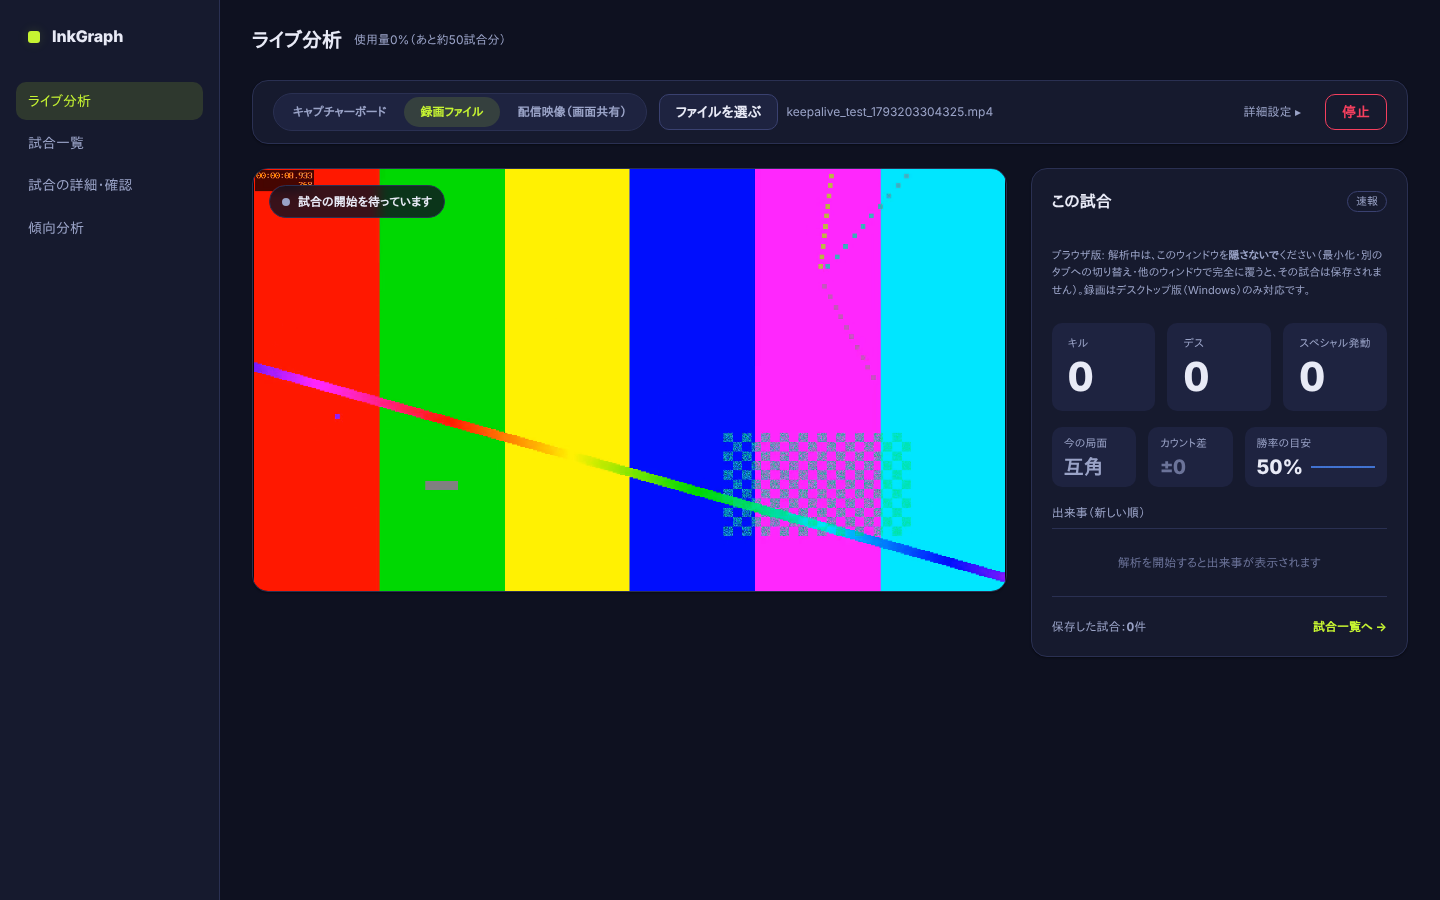
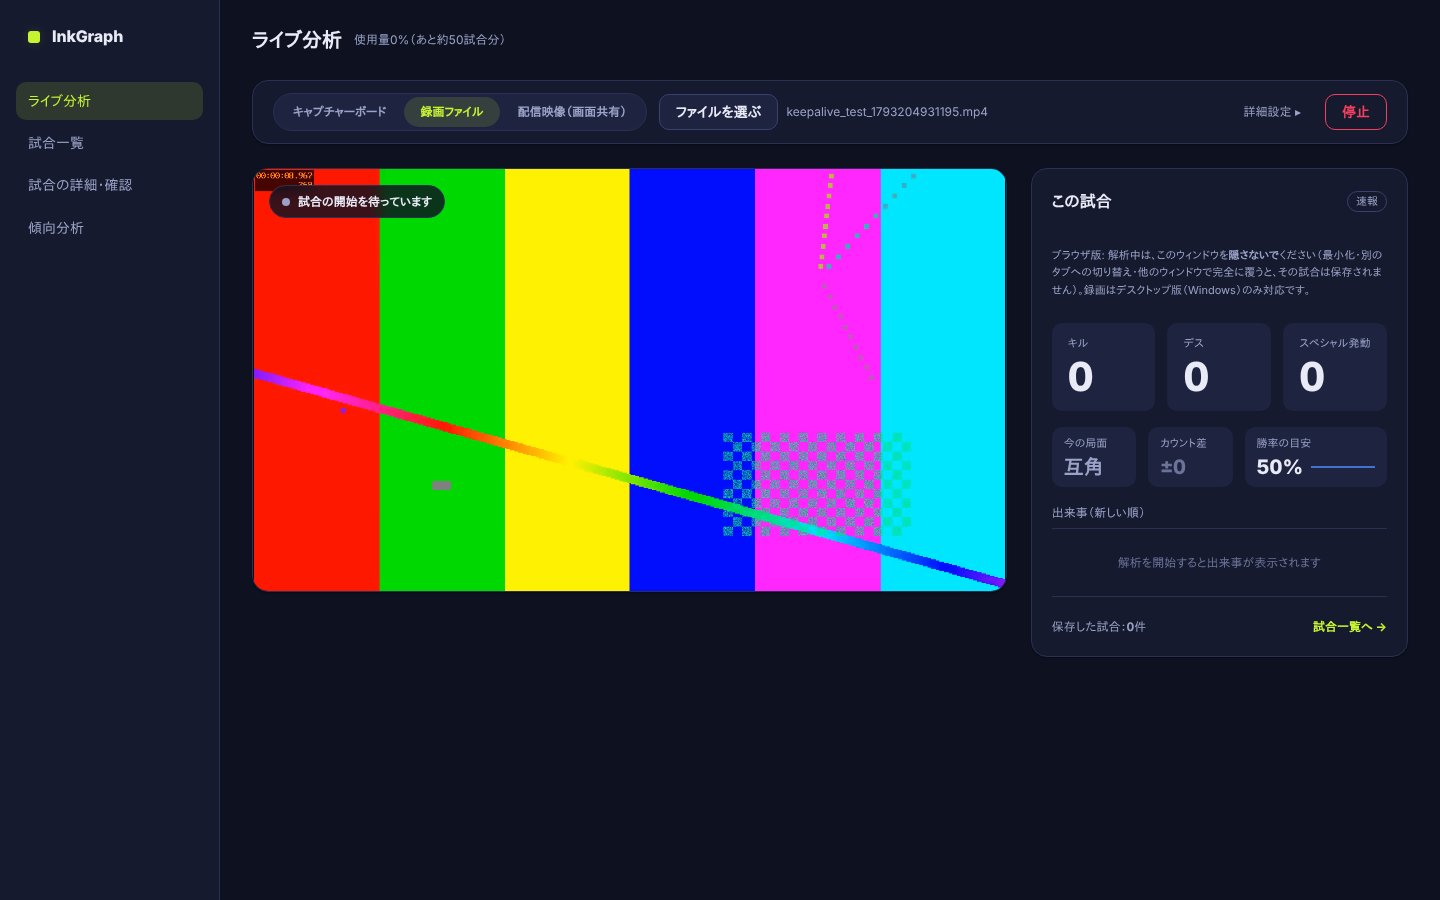
録画をMP4・60fps・音声192kbpsにする (D72) (#169)
* 検証録画: 直近1試合の全コマ＋分析結果のzip書き出し (D67)

Claude-Session: https://claude.ai/code/session_018zsqgbHNLDpb8cVTBpk5SR

* 試合ごとの録画ファイル: ルール・ステージ入りの名前で1試合1ファイル (D68)

Claude-Session: https://claude.ai/code/session_018zsqgbHNLDpb8cVTBpk5SR

* 試合録画にゲーム音を追加 (D68追記)

Claude-Session: https://claude.ai/code/session_018zsqgbHNLDpb8cVTBpk5SR

* ブキアイコンの読み違い対策（ボードの数が読めない枠を捨てる・絵の無いアイコンを出さない）と記録の全消去ボタン (D69)

Claude-Session: https://claude.ai/code/session_018zsqgbHNLDpb8cVTBpk5SR

* 試合録画: 状況表示と保存先の書き込み許可の聞き直し (D70)

Claude-Session: https://claude.ai/code/session_018zsqgbHNLDpb8cVTBpk5SR

* 試合録画: 2試合連続で別ファイルになることのテストを追加

Claude-Session: https://claude.ai/code/session_018zsqgbHNLDpb8cVTBpk5SR

* Windows デスクトップ版（Electron）の追加。ブラウザ版は録画なし・隠さない注意つきで残す (D71)

Claude-Session: https://claude.ai/code/session_018zsqgbHNLDpb8cVTBpk5SR

* 録画の診断通知を各段階に追加 (D71追記)

Claude-Session: https://claude.ai/code/session_018zsqgbHNLDpb8cVTBpk5SR

* Windows版ビルドをmainの変更で自動実行し、固定リリース desktop-latest に出す

Claude-Session: https://claude.ai/code/session_018zsqgbHNLDpb8cVTBpk5SR

* ライブ映像で「早送り」が渡って録画・中断検出が切れていた不具合を修正 (D71追記)

Claude-Session: https://claude.ai/code/session_018zsqgbHNLDpb8cVTBpk5SR

* 録画形式をMP4(H.264)にする。WebMも選べる (D72)

Claude-Session: https://claude.ai/code/session_018zsqgbHNLDpb8cVTBpk5SR

* video_rec_check: 既定のMP4に合わせてテストを更新

Claude-Session: https://claude.ai/code/session_018zsqgbHNLDpb8cVTBpk5SR

* 録画を60fps・音声192kbpsに。画質(5/8/12Mbps)を選べる (D72追記)
[…]

Changed region(s): [[0.4375, 0.4667, 0.7188, 0.6533], [0.1562, 0.4044, 0.4375, 0.5289], [0.6562, 0.0933, 0.6875, 0.1556]]

diff --git a/web/src/main.js b/web/src/main.js
@@ -1776,14 +1776,18 @@ PAGES.list = async () => {
     const dirInfo = D ? await D.getVideoDir().catch(() => null) : null, dir = D ? null : await db.getVideoDir().catch(() => null), canPick = D || typeof window.showDirectoryPicker === 'function';
     const perm = dir ? await dir.queryPermission?.({ mode: 'readwrite' }).catch(() => 'prompt') : null;
     el.innerHTML = `<h3>試合ごとの録画ファイル</h3>
-      <p class="muted">オンにすると、配信映像／キャプチャー映像の解析中、バトル開始から結果画面までを<strong>1 試合 = 1 ファイル</strong>（WebM）で保存します。ファイル名は <code>日時_ルール_ステージ_勝敗.webm</code> で、結果画面を読めたあとに自動で付きます（例: 20261027_2105_ガチエリア_ヒラメが丘団地_勝ち.webm）。1 試合 約 100MB。録画ファイルを読み込んでの解析（ファイル再生）では録画されません。</p>
+      <p class="muted">オンにすると、配信映像／キャプチャー映像の解析中、バトル開始から結果画面までを<strong>1 試合 = 1 ファイル</strong>で保存します。ファイル名は <code>日時_ルール_ステージ_勝敗.mp4</code> で、結果画面を読めたあとに自動で付きます（例: 20261027_2105_ガチエリア_ヒラメが丘団地_勝ち.mp4）。60fps・音声 192kbps。録画ファイルを読み込んでの解析（ファイル再生）では録画されません。</p>
       <label class="row"><input type="checkbox" id="video-on" ${on ? 'checked' : ''}> 試合ごとに録画する</label>
       <label class="row"><input type="checkbox" id="video-audio" ${VR.getAudioOn() ? 'checked' : ''}> ゲーム音も録音する（次に解析を始めるときから）</label>
+      <label class="row">画質（60fps） <select id="video-bitrate" class="input-sm">${VR.BITRATE_CHOICES.map(m => `<option value="${m}" ${VR.getBitrateMbps() === m ? 'selected' : ''}>${m} Mbps（1 試合 約 ${Math.round(m * 6 * 60 / 8 + 6 * 60 * 192 / 8000)}MB${m === 8 ? '・おすすめ' : ''}）</option>`).join('')}</select></label>
+      <label class="row">録画形式 <select id="video-format" class="input-sm"><option value="mp4" ${VR.getFormat() === 'mp4' ? 'selected' : ''}>MP4（H.264・おすすめ。ほとんどのプレーヤーで再生できます）</option><option value="webm" ${VR.getFormat() === 'webm' ? 'selected' : ''}>WebM（MP4 で録画できないときに）</option></select></label>
       <p class="muted">${D ? '画面共有: ウィンドウ／画面を選ぶと、Windows ではシステム音も録れます。キャプチャー映像: ボードの音声入力（映像と同じ機器の音声）を自動で探して足します。' : '配信映像（画面共有）: 共有ダイアログの「タブの音声／システムの音声も共有」にチェックを入れてください。キャプチャー映像: ボードの音声入力を自動で探して足します。'} 見つからないときは音声なしで録画します。録画中、画面からの再生音は出しません（二重に聞こえるのを防ぐため）。</p>
       <p class="muted" id="video-dir">保存先: ${D ? esc(dirInfo?.dir || '') + (dirInfo?.custom ? '' : '（既定）') : (dir ? esc(dir.name) + (perm === 'granted' ? '（書き込み許可済み）' : '（許可が切れています。「保存先を選ぶ」で選び直してください）') : '未設定（ダウンロードフォルダに自動ダウンロード）')}</p>
       <button class="btn" id="video-pick" type="button" ${canPick ? '' : 'disabled'}>${D || dir ? '保存先を選び直す' : '保存先フォルダを選ぶ'}</button>${D ? ' <button class="btn" id="video-open" type="button">保存先を開く</button>' : ''}${!D && dir && perm !== 'granted' ? ' <button class="btn" id="video-regrant" type="button">書き込みを許可する</button>' : ''}`;
     $('#video-on', el).onchange = e => VR.setVideoOn(e.target.checked);
     $('#video-audio', el).onchange = e => VR.setAudioOn(e.target.checked);
+    $('#video-bitrate', el).onchange = e => VR.setBitrateMbps(+e.target.value);
+    $('#video-format', el).onchange = e => VR.setFormat(e.target.value);
     const rg = $('#video-regrant', el); if (rg) rg.onclick = async () => { await VR.ensureDirPermission(dir); await updateVideoPanel(); };
     const op = $('#video-open', el); if (op) op.onclick = () => D.openVideoDir();
     $('#video-pick', el).onclick = async () => { try { if (D) { await D.pickVideoDir(); } else { const h = await window.showDirectoryPicker({ mode: 'readwrite' }); await db.setVideoDir(h); } await updateVideoPanel(); } catch { /* cancelled */ } };

diff --git a/web/src/video_rec.js b/web/src/video_rec.js
@@ -16,17 +16,32 @@ export function videoFilename(rec, ext = 'webm') {
   return parts.filter(Boolean).join('_') + '.' + ext;
 }
 
-const MIMES = ['video/webm;codecs=vp9,opus', 'video/webm;codecs=vp8,opus', 'video/webm;codecs=vp9', 'video/webm;codecs=vp8', 'video/webm'];
+// 録画形式。MP4（H.264 ＋ AAC。AAC が使えない環境は Opus）が既定。使えなければ WebM。
+const MIMES = {
+  mp4: ['video/mp4;codecs=avc1.640028,mp4a.40.2', 'video/mp4;codecs=avc1.42E01E,mp4a.40.2', 'video/mp4;codecs=avc1,mp4a.40.2', 'video/mp4;codecs=avc1.42E01E,opus', 'video/mp4;codecs=avc1,opus', 'video/mp4;codecs=avc1'],
+  webm: ['video/webm;codecs=vp9,opus', 'video/webm;codecs=vp8,opus', 'video/webm;codecs=vp9', 'video/webm;codecs=vp8', 'video/webm']
+};
+const FORMAT_KEY = 'inkgraph.videoFormat';
+export const getFormat = () => { try { return localStorage.getItem(FORMAT_KEY) === 'webm' ? 'webm' : 'mp4'; } catch { return 'mp4'; } };
+export const setFormat = f => { try { localStorage.setItem(FORMAT_KEY, f === 'webm' ? 'webm' : 'mp4'); } catch { /* ignore */ } };
 export const videoSupported = () => typeof MediaRecorder !== 'undefined' && recordingAvailable();
-export function pickMime() { if (!videoSupported()) return null; return MIMES.find(m => MediaRecorder.isTypeSupported?.(m)) || ''; }
-export const VIDEO_BPS = 3_000_000; // 3Mbps ≒ 5 分で約 110MB
+export function pickMime(format = getFormat()) {
+  if (typeof MediaRecorder === 'undefined') return null;
+  const ok = m => MediaRecorder.isTypeSupported?.(m);
+  return MIMES[format].find(ok) || (format === 'mp4' ? MIMES.webm.find(ok) : null) || '';
+}
+export const extOfMime = m => (/mp4/.test(m || '') ? 'mp4' : 'webm');
+// 映像のビットレート（Mbps）。60fps なので既定は 8（1 試合 約 300MB）。音声は 192kbps
+export const BITRATE_CHOICES = [5, 8, 12], AUDIO_BPS = 192_000;
+export const getBitrateMbps = () => { try { const v = parseInt(localStorage.getItem('inkgraph.videoBitrate') || '', 10); return BITRATE_CHOICES.includes(v) ? v : 8; } catch { return 8; } };
+export const setBitrateMbps = v => { try { localStorage.setItem('inkgraph.videoBitrate', String(v)); } catch { /* ignore */ } };
 
 /** 1 試合ぶんの録画。start() → stop() で Blob（ブラウザ）／ディスク上のファイルの控え（デスクトップ版: 2 秒ごとに保存先へ直接書く） */
 export class MatchRecorder {
-  constructor(stream, { bps = VIDEO_BPS } = {}) {
+  constructor(stream, { bps = getBitrateMbps() * 1_000_000 } = {}) {
     const mimeType = pickMime(), D = desktop();
-    this.rec = new MediaRecorder(stream, { ...(mimeType ? { mimeType } : {}), videoBitsPerSecond: bps, ...(stream.getAudioTracks?.().length ? { audioBitsPerSecond: 128_000 } : {}) });
-    this.mime = this.rec.mimeType || mimeType || 'video/webm'; this.chunks = []; this.state = 'idle'; this.D = D;
+    this.rec = new MediaRecorder(stream, { ...(mimeType ? { mimeType } : {}), videoBitsPerSecond: bps, ...(stream.getAudioTracks?.().length ? { audioBitsPerSecond: AUDIO_BPS } : {}) });
+    this.mime = this.rec.mimeType || mimeType || 'video/webm'; this.ext = extOfMime(this.mime); this.chunks = []; this.state = 'idle'; this.D = D;
     if (D) { this.idP = D.recOpen(); this.chain = this.idP.then(() => 0); this.bytes = 0; }
     this.rec.ondataavailable = e => {
       if (!e.data || !e.data.size) return;

diff --git a/desktop/tools/desktop_check.js b/desktop/tools/desktop_check.js
@@ -48,9 +48,17 @@ app.whenReady().then(async () => {
     w.show();
     const dir = process.env.INKGRAPH_VIDEO_DIR, files = fs.existsSync(dir) ? fs.readdirSync(dir).sort() : [];
     check(two.saved.length === 2 && two.saved.every(x => x.includes('|folder|')), '(5) 2 試合ぶんが保存先フォルダに保存された（ウィンドウは隠したまま）', two.saved.join(' ; '));
-    check(files.length === 2 && files[0].endsWith('ヒラメが丘団地_勝ち.webm') && files[1].endsWith('マテガイ放水路_負け.webm') && !files.some(f => f.endsWith('.part')), '(6) 試合ごとの名前の 2 ファイルができ、一時ファイル（.part）は残らない', files.join(' | '));
+    check(files.length === 2 && files[0].endsWith('ヒラメが丘団地_勝ち.mp4') && files[1].endsWith('マテガイ放水路_負け.mp4') && !files.some(f => f.endsWith('.part')), '(6) 試合ごとの名前の 2 ファイル（既定は MP4）ができ、一時ファイル（.part）は残らない', files.join(' | '));
     check(files.every(f => fs.statSync(path.join(dir, f)).size > 1000), '(7) ファイルの中身がある（映像が書かれている）', files.map(f => fs.statSync(path.join(dir, f)).size).join(','));
-    const head = fs.readFileSync(path.join(dir, files[0])).subarray(0, 4); check(head[0] === 0x1a && head[1] === 0x45 && head[2] === 0xdf && head[3] === 0xa3, '(8) WebM（EBML ヘッダー）として書かれている');
+    const head = fs.readFileSync(path.join(dir, files[0])).subarray(4, 8).toString(); check(head === 'ftyp', '(8) MP4（ftyp ヘッダー）として書かれている', head);
+    // 録画形式を WebM にすると、WebM（EBML ヘッダー）になる
+    await js(`localStorage.setItem('inkgraph.videoFormat', 'webm')`);
+    const web = await js(`(async () => { const { Session } = window.inkgraph, saved = []; const s = new Session(document.createElement('video'), { videoSaved: r => saved.push(r.filename) });
+      const c = document.createElement('canvas'); c.width = 160; c.height = 90; const g = c.getContext('2d'); let n = 0; setInterval(() => { g.fillStyle = 'hsl(' + (n++ * 20) + ',80%,50%)'; g.fillRect(0, 0, 160, 90); }, 40);
+      s.mode = 'stream'; s.stream = c.captureStream(25); s.sessionId = new Date(2026, 9, 27, 22, 0).toISOString(); s.fast = false; s.running = true;
+      s.onMsg({ type: 'event', e: { type: 'battle_start', t: 0 } }); await new Promise(r => setTimeout(r, 1500)); s.onMsg({ type: 'event', e: { type: 'battle_end', t: 1.5 } }); clearTimeout(s.vcur.timer); await new Promise(r => setTimeout(r, 4200));
+      await s.saveMatch({ match: 3, battle: [0, 5], squid_down: {}, own_deaths: [], own_kills: [], special: [], result_screen: { result: 'WIN', mode: 'ガチヤグラ', stage: 'ザトウマーケット', own: { ka: 1, deaths: 1, specials: 0 } }, review: { marks: {}, added: [], fix: {} } }); return saved; })()`);
+    const wf = web[0] && path.join(dir, web[0]); check(web.length === 1 && web[0].endsWith('.webm') && fs.existsSync(wf) && fs.readFileSync(wf).subarray(0, 4).equals(Buffer.from([0x1a, 0x45, 0xdf, 0xa3])), '(9) 録画形式を WebM にすると WebM で保存される', web.join(','));
   } catch (e) { console.log('FAIL exception', e); fails++; }
   fs.rmSync(tmp, { recursive: true, force: true }); app.exit(fails ? 1 : 0);
 });

diff --git a/web/src/session.js b/web/src/session.js
@@ -32,11 +32,11 @@ export class Session {
     this.mode = mode; this.owner = owner || 'self'; this.fast = !!fast && mode === 'file'; this.sessionId = new Date().toISOString();
     if (mode === 'stream') {
       this.sourceName = '配信映像（画面共有）';
-      this.stream = await navigator.mediaDevices.getDisplayMedia({ video: { width: { ideal: 1920 }, height: { ideal: 1080 }, frameRate: { ideal: 30 } }, audio: wantAudio });
+      this.stream = await navigator.mediaDevices.getDisplayMedia({ video: { width: { ideal: 1920 }, height: { ideal: 1080 }, frameRate: { ideal: 60 } }, audio: wantAudio });
       this.video.srcObject = this.stream; this.video.muted = true; await this.video.play(); this.srcH = this.stream.getVideoTracks()[0]?.getSettings?.()?.height || 1080; this.t0 = performance.now();
     } else if (mode === 'device') {
       this.sourceName = 'キャプチャー映像';
-      this.stream = await navigator.mediaDevices.getUserMedia({ video: { deviceId: deviceId ? { exact: deviceId } : undefined, width: { ideal: 1920 }, height: { ideal: 1080 }, frameRate: { ideal: 30 } }, audio: false });
+      this.stream = await navigator.mediaDevices.getUserMedia({ video: { deviceId: deviceId ? { exact: deviceId } : undefined, width: { ideal: 1920 }, height: { ideal: 1080 }, frameRate: { ideal: 60 } }, audio: false });
       // D68: ゲーム音。キャプチャーボードの音声入力（映像と同じ groupId）を足す。見つからなければ音声なしで続ける
       if (wantAudio) {
         try {
@@ -187,7 +187,7 @@ export class Session {
     if (!keep) this.videoNote('録画: 試合を保存しなかったので、録画も捨てました');
     clearTimeout(c.timer); if (this.vcur === c) this.vcur = null;
     const blob = await c.r.stop(); if (!keep) { await blob?.discard?.(); return; } if (!blob || !blob.size) { this.videoNote('録画: 映像が空だったので保存しませんでした', 'error'); return; }
-    try { const name = videoFilename({ ...rec, created: new Date(Date.parse(this.sessionId) + (rec.battle?.[0] ?? 0) * 1000).toISOString() }), res = await saveVideo(blob, name, { getDir: db.getVideoDir }); rec.videoFile = name; this.cb.videoSaved?.({ ...res, bytes: blob.size }); }
+    try { const name = videoFilename({ ...rec, created: new Date(Date.parse(this.sessionId) + (rec.battle?.[0] ?? 0) * 1000).toISOString() }, c.r.ext || 'webm'), res = await saveVideo(blob, name, { getDir: db.getVideoDir }); rec.videoFile = name; this.cb.videoSaved?.({ ...res, bytes: blob.size }); }
     catch (e) { console.warn('video save failed', e); this.videoNote('録画: 保存に失敗しました（' + (e?.message || e) + '）', 'error'); }
   }
   async saveMatch(rec) {

diff --git a/docs/DECISIONS.md b/docs/DECISIONS.md
@@ -788,7 +788,7 @@
 
 ## D68 (2026-10-27) 試合ごとの録画ファイル（ルール・ステージ入りの名前で 1 試合 1 ファイル）
 - 機能：リスト画面の「試合ごとの録画ファイル」パネルでオンにすると、**配信映像／キャプチャー映像**の解析中、バトル開始（`battle_start`）から結果画面（`battle_end` の 25 秒後）までを `MediaRecorder` で録り、1 試合 = 1 ファイル（WebM・3Mbps ≒ 5 分で約 110MB）で保存する。録画ファイルを読み込んでの解析（file モード）では録画しない。
-- ファイル名：`日時_ルール_ステージ_勝敗.webm`（例 `20261027_2105_ガチエリア_ヒラメが丘団地_勝ち.webm`。regular 以外のマッチ種別は勝敗の前に入る）。名前は**試合が終わって結果画面を読めたあと**に決まる（録画自体は結果画面が出る前から始まっているため）。読めなかった項目は「ルール不明／ステージ不明／勝敗不明」。使えない文字は除く。日時は解析開始の時刻＋バトル開始の秒数（試合の始まった時刻）。`rec.videoFile` に名前を持つ（クラウド同期の対象外）。
+- ファイル名：`日時_ルール_ステージ_勝敗.webm`（例 `20261027_2105_ガチエリア_ヒラメが丘団地_勝ち.mp4`。regular 以外のマッチ種別は勝敗の前に入る）。名前は**試合が終わって結果画面を読めたあと**に決まる（録画自体は結果画面が出る前から始まっているため）。読めなかった項目は「ルール不明／ステージ不明／勝敗不明」。使えない文字は除く。日時は解析開始の時刻＋バトル開始の秒数（試合の始まった時刻）。`rec.videoFile` に名前を持つ（クラウド同期の対象外）。
 - 保存先：Chrome／Edge の File System Access API で**保存先フォルダ**を選ぶ（ハンドルは IndexedDB の `learn` ストアの `videoDir`）。再読み込み後は書き込み許可が切れるので、パネルの「保存先を選び直す」で再許可する（許可が無い間・非対応ブラウザは、ダウンロードで保存）。メモリには 1 試合ぶん（約 100MB）を持つ。ライブ画面のイベント一覧に「録画を保存: …」と出る。
 - 動作：バトル開始で録画開始 → 試合が捨てられた（`battle_discard`／ガードで保存しない判定）ら録画も捨てる → 試合が保存されるときに先頭の録画と対にして保存（先入れ先出し）。
 - 検証：`web/tools/video_rec_check.mjs`（名前付け 4 件・パネル 2 件・実ブラウザで canvas を MediaRecorder で WebM にする・ダウンロード保存・ページエラー無し、計 9 件 PASS）。`session_keepalive_check`・`stream_capture_check`・`clip_ui_check`・`cloud_ui_check` も PASS。**実際のキャプチャー映像での通し（バトルをまたいだ録画・フォルダ保存）は未確認。**
@@ -819,3 +819,10 @@
 - 追記（D71）録画の診断：ブラウザ版で「録画: オン」のあと、試合が終わっても何も出ない、という報告があった（原因は特定できず）。録画の各段階で、理由つきの通知を出すようにした：開始できない理由（ストリーム無し・環境が非対応）、バトル終了時に録画が始まっていなかった、試合として確定せず捨てた、試合を保存しなかったので録画も捨てた、保存時に対応する録画が無かった。デスクトップ版でも同じ通知が出る。
 - 追記（D71）配布の自動化：Windows 版のビルドは、main に `desktop/**`・`web/**`・ワークフロー自身の変更が入ると自動で動く（連続して入ったら古いほうは中止）。成果物は Artifacts と、固定のリリース `desktop-latest`（毎回作り直す pre-release）。手動実行・`desktop-v*` タグも残す。Windows のビルドは数分かかるので、Actions の無料枠（private リポジトリは Windows が 2 倍換算）に注意。アプリ内の自動更新（electron-updater）は未対応で、今は新しい exe を取り直す。
 - 追記（D71）不具合：ライブ映像（配信／キャプチャー）の解析で、「ファイルは早送りで解析」のチェック（既定でオン）が `fast` として渡され、`Session.fast` が真になっていた。`!this.fast` の中にある処理（中断の検出（CaptureGuard）・見張りタイマー・録画の開始／保存・hidden の扱い）が**ライブ映像ですべて切れていた**。録画が始まらなかった（「この試合に対応する録画がありません」）原因はこれ。`fast` はファイルの解析だけで有効にする（`this.fast = fast && mode === 'file'`）。ライブ映像では、中断の検出が有効になる（映像の取り込みが 3 秒以上止まった試合は保存しない、という本来の動き）。`video_rec_check` に、`fast: true` でライブ映像を始めても `fast` が無視され、見張り・録画・中断の検出が動くことの確認を追加（20 件 PASS）。
+
+## D72 (2026-10-28) 録画形式を MP4（H.264）にする（WebM は選べる）
+- 要望：録画ファイルが WebM で扱いにくい。MP4 にしたい。
+- 対応：`MediaRecorder` が MP4 で直接録れる（Chromium 126 以降。Electron 33 ＝ Chromium 130 で確認）ので、再エンコードや ffmpeg の同梱はせず、録画の形式を MP4 にした。コーデックは H.264 ＋ AAC を優先し、AAC が使えない環境は Opus、MP4 が使えなければ WebM に戻る（`video_rec.js` の `pickMime`）。形式はリスト画面の録画パネルの「録画形式」（MP4／WebM、`localStorage['inkgraph.videoFormat']`、既定は MP4）。拡張子は実際に使われた形式に合わせる（`.mp4`／`.webm`）。
+- MP4 の中身：MediaRecorder が書くのは**フラグメント MP4**（`moof` が並ぶ形）。2 秒ごとに書き足す方式と相性が良く、途中で止まった（クラッシュ等）ファイルも再生できる。長さの情報も入る。シーク可能。
+- 検証：`desktop/tools/desktop_check.js` を更新（既定は MP4：2 試合が `.mp4`・`ftyp` ヘッダー、形式を WebM にすると `.webm`・EBML ヘッダー、計 10 件 PASS）。Linux の Electron では H.264＋Opus で `ffprobe` が `h264`／`opus`・長さ・デコード成功を確認。**AAC（mp4a.40.2）はこの環境の Electron では使えず（Windows の Chromium はメディアファンデーションで使える見込みだが未確認）。Windows で実際に AAC になるか、標準のプレーヤー（映画＆テレビ・Windows Media Player）で音が出るかは未確認。**
+- 追記（D72）録画スペック：映像の取得を **60fps**（`frameRate: { ideal: 60 }`。ボードや画面が 60fps を出していれば 60、出していなければその値）、音声を **192kbps** にした。映像のビットレートは画質として選べる（リスト画面の録画パネル。5／**8（既定）**／12 Mbps。60fps なので 3Mbps からではなく 8Mbps を既定にした。1 試合 約 300MB）。解析は従来どおり 5fps で取り込むので、60fps にしても解析の負荷はほぼ変わらない（映像の取り込み・エンコードの負荷は増える）。解像度は映像元のまま（最大 1920×1080 を要求）。`video_rec_check` に画質の選択・既定・音声ビットレートの確認を追加（20 件 PASS）。**実際に 60fps で録れるかは、ボードの出力と PC の性能による（実機で未確認）。**
